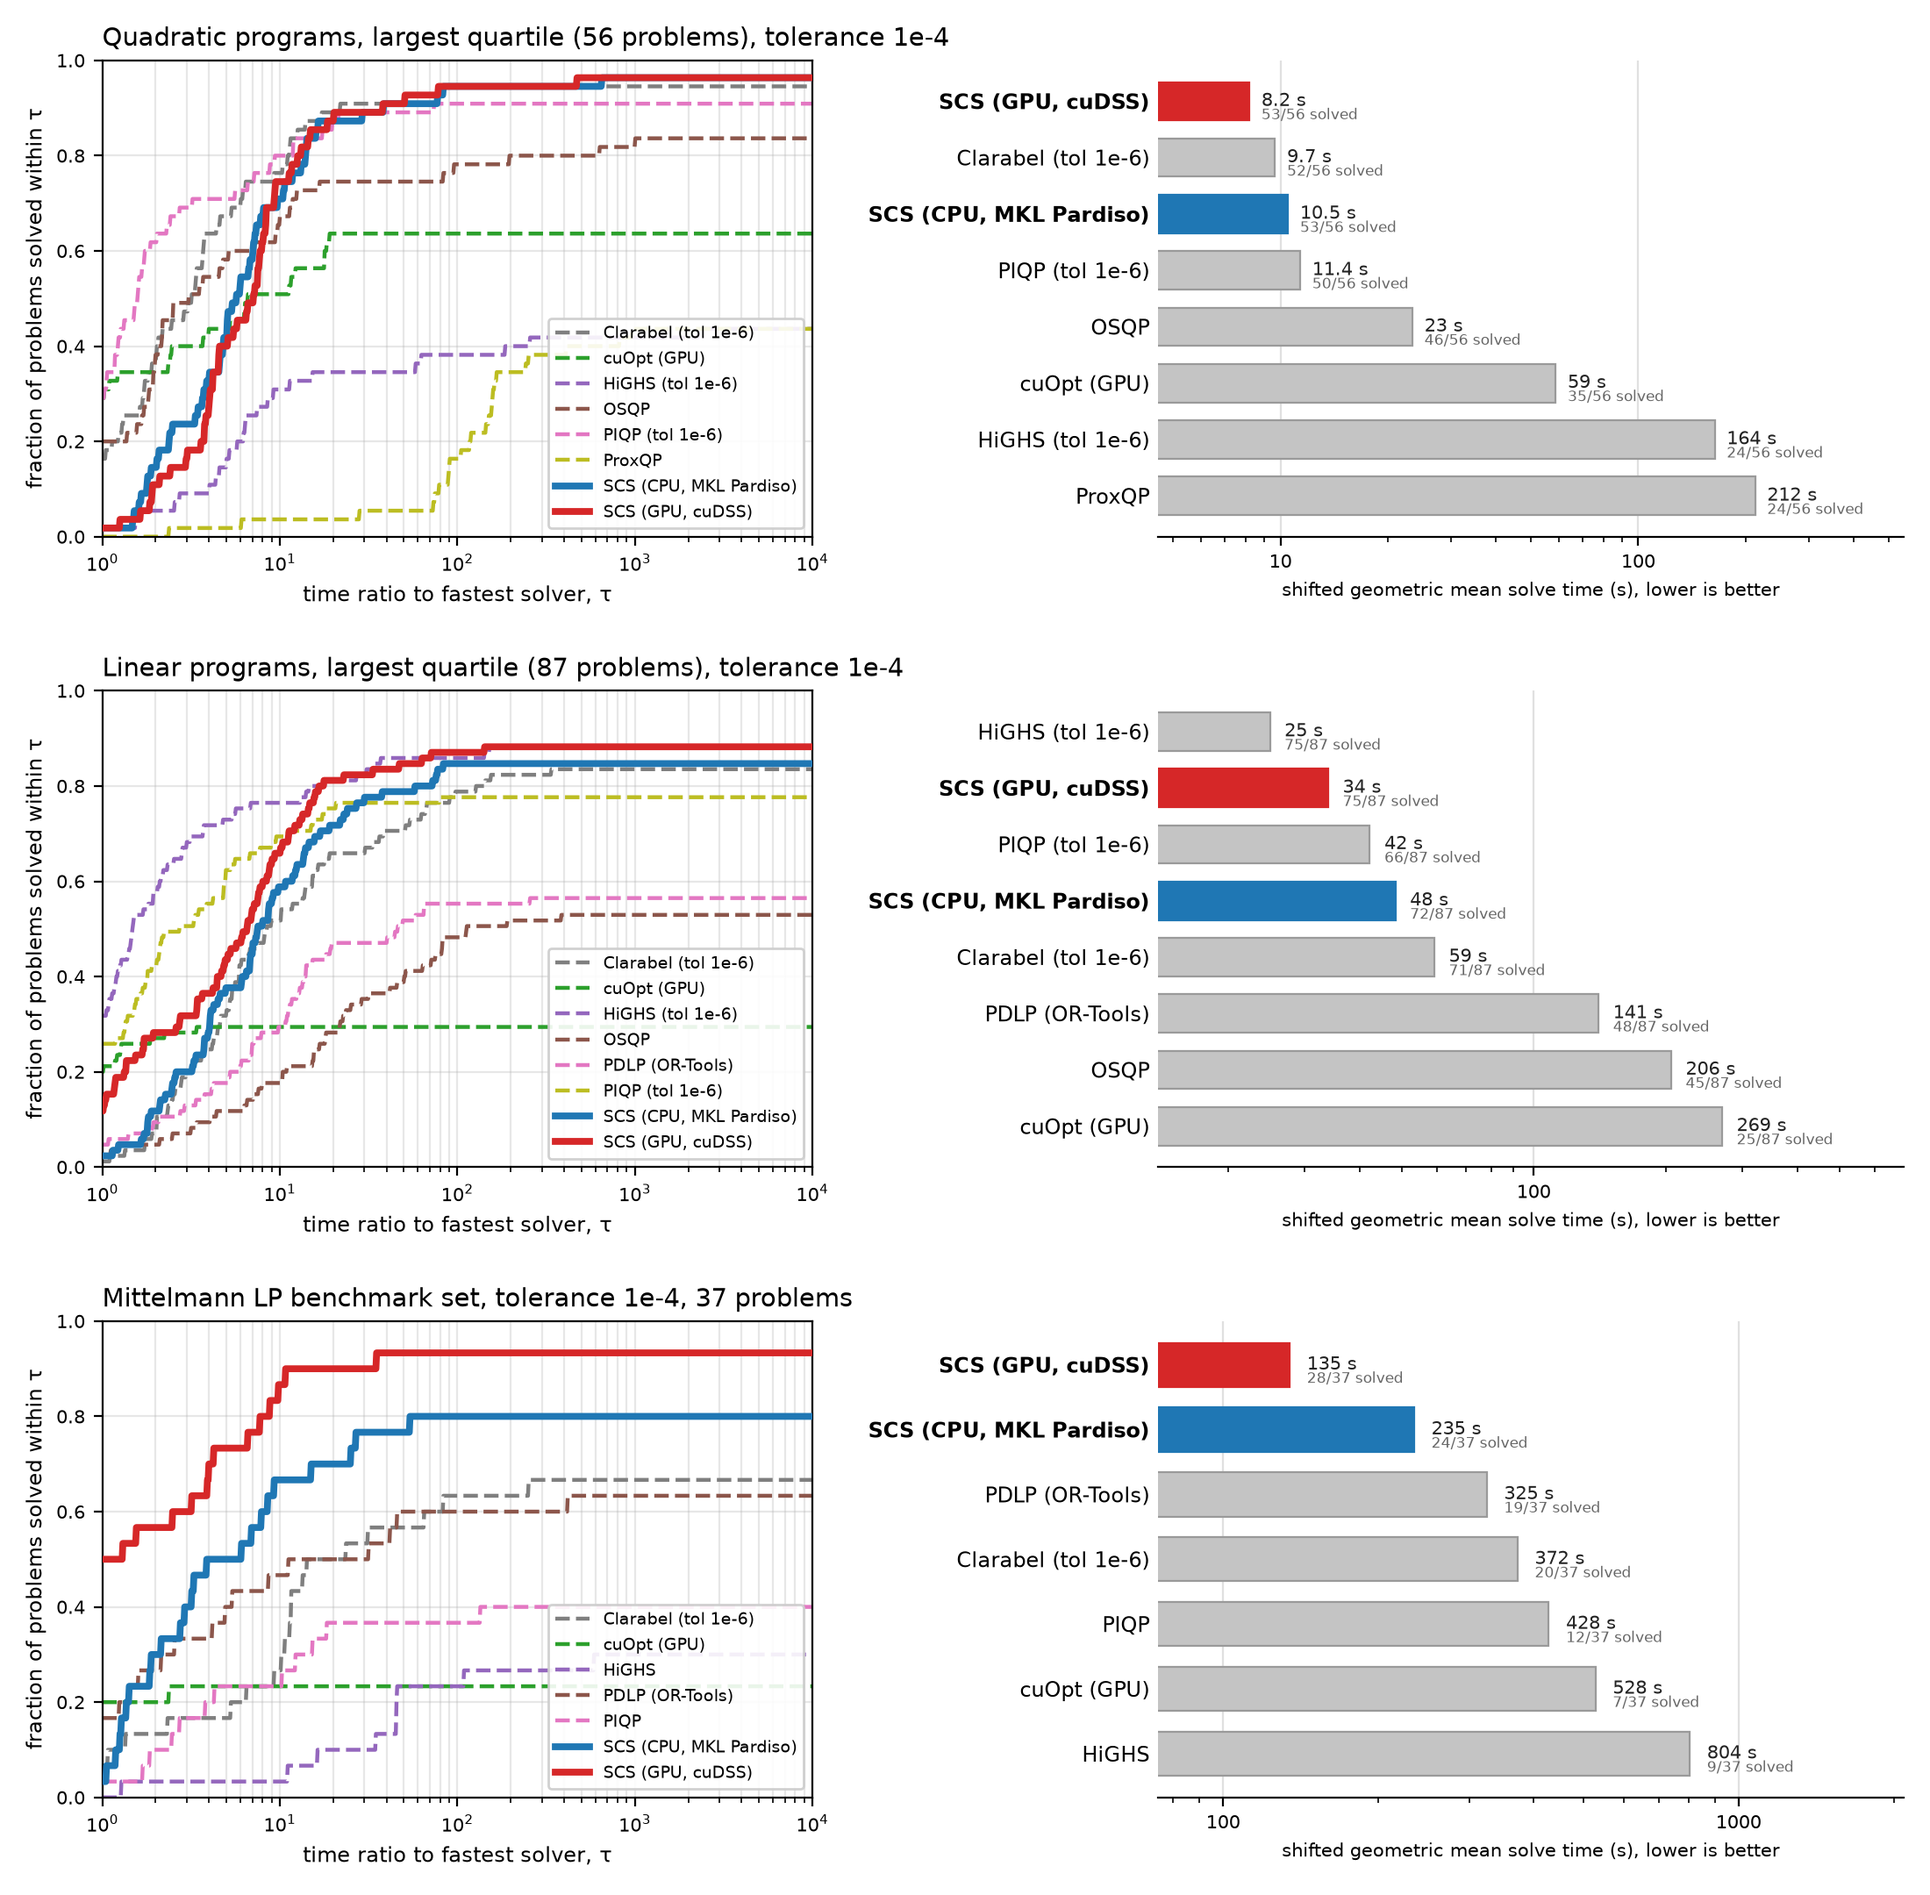
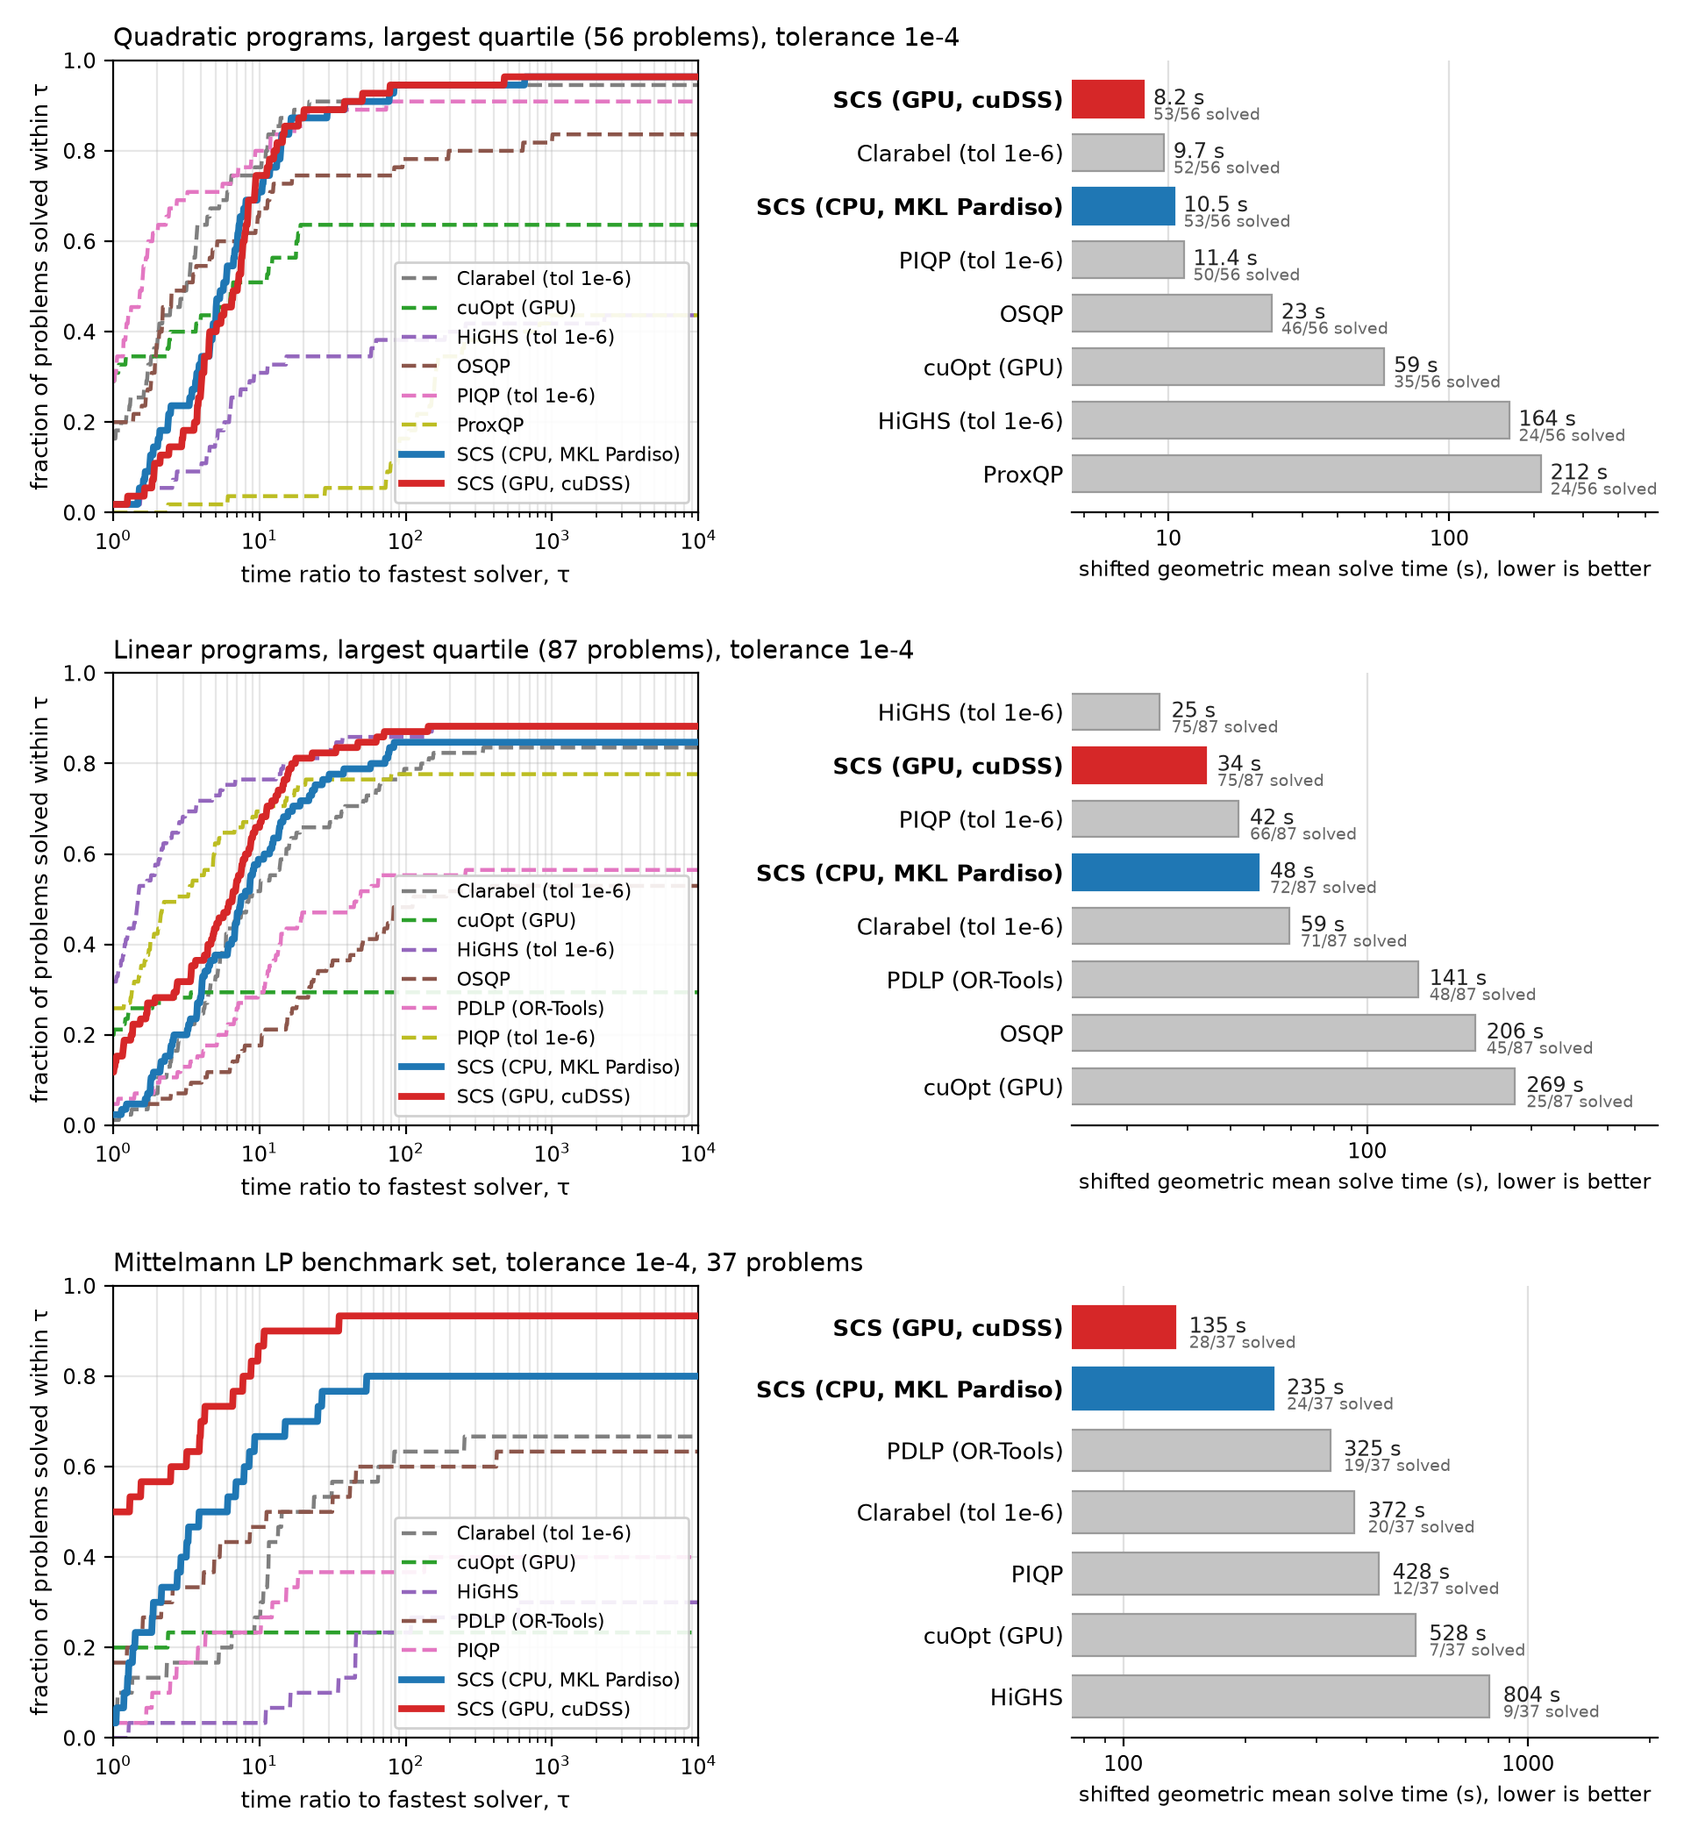
docs: widen the content column to 1000px; larger type in the landing grid

Changed region(s): [[0.0, 0.0, 0.9688, 0.65], [0.0, 0.681, 0.9688, 0.9905]]

diff --git a/docs/src/_static/css/scs_theme.css b/docs/src/_static/css/scs_theme.css
@@ -91,3 +91,8 @@ a:hover, a:active {
     color: rgb(0, 0, 0);
 }
 
+
+/* a little wider than the theme default (800px) so figures stay legible */
+.wy-nav-content {
+    max-width: 1000px;
+}
